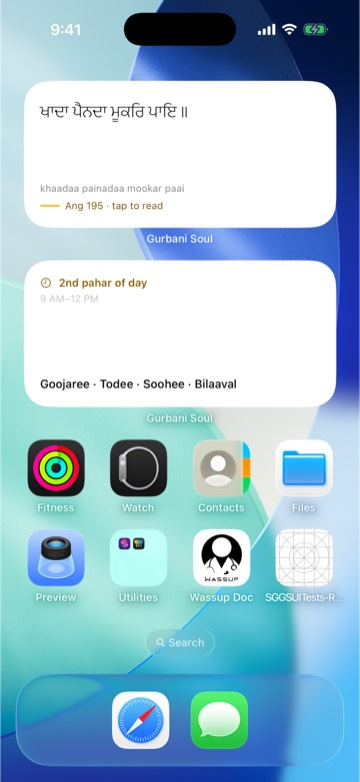
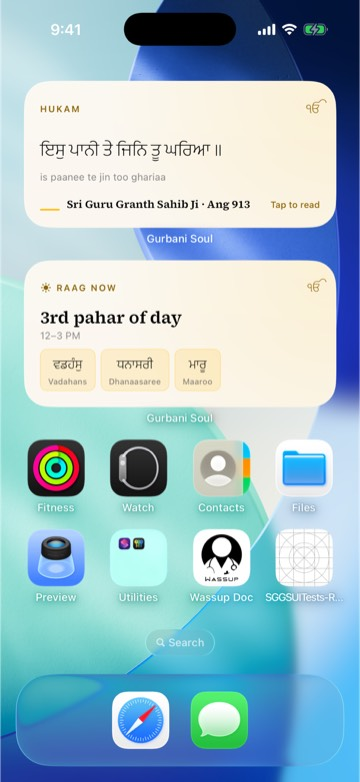
ios(widgets): premium redesign on the brand system
Hukam verse + Raag now widgets rebuilt to the brand book (section 6):
- warm paper ground (Ink.paper) with a faint gold light in one corner
- small-caps gold eyebrow ("HUKAM", "RAAG NOW" with a sun/moon glyph)
  and the gold Ik Onkar signature
- verse in ink Sant Lipi with generous leading; transliteration beneath;
  citation in Source Serif 4 as the full "Sri Guru Granth Sahib Ji - Ang N"
  with a gold rule and a "Tap to read" cue
- Raag now: pahar name in the serif, time range, raag chips showing the
  verbatim Gurmukhi raag name over its roman form (small: 2, medium: 4,
  "+n" overflow); day/night states; silent-watch copy
- WidgetSnapshot.paharRaagsGurmukhi (optional, older snapshots decode);
  AppContainer writes it. Source Serif 4 bundled + registered in the
  widget extension (project.yml / Widgets/Info.plist regenerated).
- accessibility: combined labels; Gurmukhi spoken as Punjabi.

Scripture is verbatim from the snapshot and never coloured. Checked on
the iPhone 17 simulator (both widgets, light). SGGSTests 44/44.
Store widget screenshot re-captured; contact-sheet thumbnail updated.

Changed region(s): [[0.0917, 0.3376, 0.9472, 0.5217], [0.0917, 0.0921, 0.9472, 0.3069]]

diff --git a/ios/App/Widgets/SGGSWidgets.swift b/ios/App/Widgets/SGGSWidgets.swift
@@ -4,6 +4,10 @@ import GurbaniPahar
 
 /// SGGS widgets — read the App-Group snapshot + pure GurbaniPahar math only (never the corpus
 /// DB; extension memory stays in kilobytes). Deep links route through the app's sggs:// table.
+///
+/// Design (brand book §6, "Widgets"): warm paper ground, one gold accent, a small-caps eyebrow,
+/// scripture in ink Sant Lipi with air around it, the full citation in the heading serif.
+/// Scripture is verbatim from the snapshot and is never coloured or restyled.
 
 @main
 struct SGGSWidgetsBundle: WidgetBundle {
@@ -13,12 +17,81 @@ struct SGGSWidgetsBundle: WidgetBundle {
     }
 }
 
+// MARK: - Shared vocabulary (the widget target has no Theme.swift; Sant Lipi + Source Serif 4
+// are bundled and registered in the extension's own Info.plist)
+
+private enum WidgetType {
+    static func gurmukhi(_ size: CGFloat) -> Font { .custom("SantLipi-ExtraLight", size: size) }
+    static func serif(_ size: CGFloat, weight: Font.Weight = .semibold) -> Font {
+        .custom("SourceSerif4Variable-Roman", size: size).weight(weight)
+    }
+    static let eyebrow: Font = .system(size: 10, weight: .semibold, design: .default)
+}
+
+/// The paper ground every widget sits on: `Ink.paper` plus a faint gold light in one corner —
+/// the only decoration, at ≤8% so scripture always leads.
+private struct PaperGround: View {
+    var body: some View {
+        ZStack {
+            Ink.paper
+            RadialGradient(colors: [AccentPalette.brandDefault.accentFill.opacity(0.14), .clear],
+                           center: .topTrailing, startRadius: 0, endRadius: 260)
+        }
+    }
+}
+
+/// Small-caps label in the accent — "HUKAM", "RAAG NOW".
+private struct Eyebrow: View {
+    let text: String
+    var symbol: String? = nil
+    var body: some View {
+        HStack(spacing: 5) {
+            if let symbol { Image(systemName: symbol).font(.system(size: 10, weight: .semibold)) }
+            Text(text).font(WidgetType.eyebrow).tracking(1.4)
+        }
+        .foregroundStyle(AccentPalette.brandDefault.accentText)
+        .accessibilityHidden(true)
+    }
+}
+
+/// The ੴ mark, gold, used as the widget's signature.
+private struct Mark: View {
+    var size: CGFloat = 18
+    var body: some View {
+        Text("ੴ").font(WidgetType.gurmukhi(size))
+            .foregroundStyle(AccentPalette.brandDefault.accentText)
+            .accessibilityHidden(true)
+    }
+}
+
+/// Gold rule + citation in the serif. Always the full name of the Granth (brand book §1).
+private struct Citation: View {
+    let ang: Int
+    var action: String? = nil
+    var body: some View {
+        HStack(alignment: .firstTextBaseline, spacing: 8) {
+            RoundedRectangle(cornerRadius: 1).fill(AccentPalette.brandDefault.accentFill)
+                .frame(width: 22, height: 2).alignmentGuide(.firstTextBaseline) { $0[.bottom] - 3 }
+            Text("Sri Guru Granth Sahib Ji · Ang \(String(ang))")
+                .font(WidgetType.serif(12))
+                .foregroundStyle(.primary)
+                .lineLimit(1).minimumScaleFactor(0.8)
+            if let action {
+                Spacer(minLength: 4)
+                Text(action).font(.system(size: 10, weight: .medium))
+                    .foregroundStyle(AccentPalette.brandDefault.accentText)
+            }
+        }
+    }
+}
+
 // MARK: - Current raag (fixed-clock pahar timeline)
 
 struct RaagNowEntry: TimelineEntry {
     let date: Date
     let pahar: Int
-    let raags: [String]
+    let raags: [String]            // roman
+    let raagsGurmukhi: [String]    // verbatim Gurmukhi names, parallel to `raags` when present
     let hasSnapshot: Bool
 }
 
@@ -28,11 +101,13 @@ struct RaagNowProvider: TimelineProvider {
         let m = (c.hour ?? 0) * 60 + (c.minute ?? 0)
         let p = Pahar.paharFromMinutes(m)
         return RaagNowEntry(date: date, pahar: p, raags: snapshot?.paharRaags[p] ?? [],
+                            raagsGurmukhi: snapshot?.paharRaagsGurmukhi?[p] ?? [],
                             hasSnapshot: snapshot != nil)
     }
 
     func placeholder(in context: Context) -> RaagNowEntry {
-        RaagNowEntry(date: .now, pahar: 4, raags: ["maajh", "gaurhee", "tilang"], hasSnapshot: true)
+        RaagNowEntry(date: .now, pahar: 4, raags: ["maajh", "gaurhee", "tilang"],
+                     raagsGurmukhi: [], hasSnapshot: true)
     }
 
     func getSnapshot(in context: Context, completion: @escaping (RaagNowEntry) -> Void) {
@@ -66,7 +141,7 @@ struct RaagNowWidget: Widget {
     var body: some WidgetConfiguration {
         StaticConfiguration(kind: "RaagNow", provider: RaagNowProvider()) { entry in
             RaagNowView(entry: entry, hasSnapshot: entry.hasSnapshot)
-                .containerBackground(for: .widget) { Ink.card }
+                .containerBackground(for: .widget) { PaperGround() }
         }
         .configurationDisplayName("Raag now")
         .description("Which raags are traditionally sung in the current watch (fixed clock).")
@@ -79,28 +154,70 @@ struct RaagNowView: View {
     /// Distinguishes "no snapshot yet" (open the app) from a pahar that legitimately has
     /// no primary raags — the two used to share one misleading message.
     let hasSnapshot: Bool
+    @Environment(\.widgetFamily) private var family
+
+    private var isDay: Bool { (1...4).contains(entry.pahar) }
+    private var chipLimit: Int { family == .systemSmall ? 2 : 4 }
+
+    /// A raag chip: Gurmukhi name (verbatim) over its roman form; roman only if the snapshot
+    /// predates the Gurmukhi field.
+    private func chip(_ i: Int) -> some View {
+        let roman = entry.raags[i].capitalized
+        let gm = i < entry.raagsGurmukhi.count ? entry.raagsGurmukhi[i] : nil
+        return VStack(spacing: 1) {
+            if let gm { Text(gm).font(WidgetType.gurmukhi(15)).foregroundStyle(.primary) }
+            Text(roman).font(.system(size: gm == nil ? 12 : 9, weight: .medium))
+                .foregroundStyle(gm == nil ? .primary : .secondary)
+        }
+        .padding(.horizontal, 9).padding(.vertical, 5)
+        .background(AccentPalette.brandDefault.accentFill.opacity(0.16),
+                    in: RoundedRectangle(cornerRadius: 8, style: .continuous))
+        .overlay(RoundedRectangle(cornerRadius: 8, style: .continuous)
+            .strokeBorder(AccentPalette.brandDefault.accentFill.opacity(0.45), lineWidth: 0.5))
+    }
 
     var body: some View {
-        VStack(alignment: .leading, spacing: 4) {
-            HStack {
-                Image(systemName: "clock").font(.caption2)
-                Text(Pahar.label(entry.pahar)).font(.caption.weight(.semibold))
+        VStack(alignment: .leading, spacing: 0) {
+            HStack(alignment: .center) {
+                Eyebrow(text: "RAAG NOW", symbol: isDay ? "sun.max.fill" : "moon.stars.fill")
+                Spacer()
+                Mark(size: 15)
             }
-            .foregroundStyle(AccentPalette.brandDefault.accentText)
-            Text(Pahar.range(entry.pahar)).font(.caption2).foregroundStyle(.tertiary)
-            Spacer(minLength: 2)
+            Spacer(minLength: 6)
+            Text(Pahar.label(entry.pahar))
+                .font(WidgetType.serif(family == .systemSmall ? 16 : 19))
+                .lineLimit(1).minimumScaleFactor(0.8)
+            Text(Pahar.range(entry.pahar))
+                .font(.system(size: 11)).foregroundStyle(.secondary)
+                .padding(.top, 1)
+            Spacer(minLength: 8)
             if entry.raags.isEmpty {
-                Text(entry.pahar == 7 ? "Deliberately silent"
-                     : hasSnapshot ? "No raags named for this watch" : "Open the app to load")
-                    .font(.footnote).foregroundStyle(.secondary)
+                Text(entry.pahar == 7 ? "Deliberately silent — no raags are assigned to this watch."
+                     : hasSnapshot ? "No raags named for this watch." : "Open Gurbani Soul once to load.")
+                    .font(.system(size: 12)).foregroundStyle(.secondary)
+                    .lineLimit(2)
             } else {
-                Text(entry.raags.prefix(4).map { $0.capitalized }.joined(separator: " · "))
-                    .font(.footnote.weight(.medium))
-                    .lineLimit(3)
+                HStack(spacing: 6) {
+                    ForEach(0..<min(chipLimit, entry.raags.count), id: \.self) { chip($0) }
+                    if entry.raags.count > chipLimit {
+                        Text("+\(entry.raags.count - chipLimit)")
+                            .font(.system(size: 11, weight: .medium))
+                            .foregroundStyle(AccentPalette.brandDefault.accentText)
+                    }
+                }
+                .lineLimit(1)
             }
         }
         .frame(maxWidth: .infinity, maxHeight: .infinity, alignment: .topLeading)
+        .accessibilityElement(children: .ignore)
+        .accessibilityLabel(a11y)
         .widgetURL(URL(string: "sggs://clock"))
+    }
+
+    private var a11y: String {
+        let names = entry.raagsGurmukhi.isEmpty ? entry.raags.map { $0.capitalized } : entry.raagsGurmukhi
+        return "Raag now. \(Pahar.label(entry.pahar)), \(Pahar.range(entry.pahar)). "
+            + (names.isEmpty ? "No raags named." : names.joined(separator: ", "))
     }
 }
 
@@ -131,7 +248,7 @@ struct HukamWidget: Widget {
     var body: some WidgetConfiguration {
         StaticConfiguration(kind: "Hukam", provider: HukamProvider()) { entry in
             HukamView(entry: entry)
-                .containerBackground(for: .widget) { Ink.card }
+                .containerBackground(for: .widget) { PaperGround() }
         }
         .configurationDisplayName("Hukam verse")
         .description("A Hukam unit's opening verse, verbatim with its Ang — a new draw each time you open the app.")
@@ -141,29 +258,49 @@ struct HukamWidget: Widget {
 
 struct HukamView: View {
     let entry: HukamEntry
+    @Environment(\.widgetFamily) private var family
+
+    private var large: Bool { family == .systemLarge }
+
     var body: some View {
-        VStack(alignment: .leading, spacing: 6) {
+        VStack(alignment: .leading, spacing: 0) {
+            HStack(alignment: .center) {
+                Eyebrow(text: "HUKAM")
+                Spacer()
+                Mark(size: large ? 22 : 16)
+            }
             if let s = entry.snapshot {
+                Spacer(minLength: large ? 14 : 8)
+                // The verse: verbatim, ink, generous leading for stacked matras.
                 Text(s.hukamGurmukhi)
-                    .font(.custom("SantLipi-ExtraLight", size: 20))
-                    .minimumScaleFactor(0.6)
-                    .lineLimit(4)
-                Spacer(minLength: 2)
-                Text(s.hukamTranslit).font(.caption2).foregroundStyle(.secondary).lineLimit(2)
-                HStack(spacing: 6) {
-                    RoundedRectangle(cornerRadius: 1)
-                        .fill(AccentPalette.brandDefault.heroGradient)
-                        .frame(width: 22, height: 2)
-                    Text("Ang \(String(s.hukamAng)) · tap to read")
-                        .font(.caption2).foregroundStyle(AccentPalette.gold.accentText)
+                    .font(WidgetType.gurmukhi(large ? 26 : 21))
+                    .lineSpacing(large ? 8 : 5)
+                    .minimumScaleFactor(0.7)
+                    .lineLimit(large ? 5 : 3)
+                    .foregroundStyle(.primary)
+                    .accessibilityLabel(Text(punjabi(s.hukamGurmukhi)))
+                if !s.hukamTranslit.isEmpty {
+                    Text(s.hukamTranslit)
+                        .font(.system(size: large ? 13 : 11))
+                        .foregroundStyle(.secondary)
+                        .lineLimit(large ? 3 : 1)
+                        .padding(.top, large ? 10 : 6)
+                        .accessibilityHidden(true)
                 }
+                Spacer(minLength: large ? 14 : 8)
+                Citation(ang: s.hukamAng, action: large ? "Tap to read the shabad" : "Tap to read")
             } else {
-                Text("ੴ").font(.custom("SantLipi-ExtraLight", size: 28))
-                    .foregroundStyle(AccentPalette.brandDefault.accent)
-                Text("Open SGGS once to load a Hukam.").font(.footnote).foregroundStyle(.secondary)
+                Spacer(minLength: 8)
+                Text("Open Gurbani Soul once to draw a Hukam.")
+                    .font(.system(size: 13)).foregroundStyle(.secondary)
+                Spacer(minLength: 8)
             }
         }
         .frame(maxWidth: .infinity, maxHeight: .infinity, alignment: .topLeading)
         .widgetURL(URL(string: entry.snapshot.map { "sggs://shabad/\($0.hukamCompId)" } ?? "sggs://ang/1"))
+    }
+
+    private func punjabi(_ s: String) -> AttributedString {
+        var a = AttributedString(s); a.languageIdentifier = "pa"; return a
     }
 }

diff --git a/ios/App/Sources/App/AppContainer.swift b/ios/App/Sources/App/AppContainer.swift
@@ -188,10 +188,13 @@ final class AppContainer {
         guard let hukam = try? await corpus.randomHukam(),
               let firstVerse = hukam.lines.first(where: { !$0.isHeader }) else { return }
         var paharRaags: [Int: [String]] = [:]
+        var paharRaagsGurmukhi: [Int: [String]] = [:]
         let clock = await corpus.timingClock()
         if clock.available {
             for p in 1...8 {
-                paharRaags[p] = clock.raags(forPahar: p).compactMap { $0.roman ?? $0.raagName }
+                let claims = clock.raags(forPahar: p)
+                paharRaags[p] = claims.compactMap { $0.roman ?? $0.raagName }
+                paharRaagsGurmukhi[p] = claims.compactMap { $0.raagName ?? $0.roman }
             }
         }
         WidgetStore.save(WidgetSnapshot(
@@ -200,7 +203,8 @@ final class AppContainer {
             hukamTranslit: firstVerse.translit,
             hukamAng: firstVerse.ang,
             hukamCompId: hukam.compId,
-            paharRaags: paharRaags))
+            paharRaags: paharRaags,
+            paharRaagsGurmukhi: paharRaagsGurmukhi))
         #if canImport(WidgetKit)
         WidgetCenter.shared.reloadAllTimelines()
         #endif

diff --git a/ios/App/Shared/WidgetShared.swift b/ios/App/Shared/WidgetShared.swift
@@ -13,6 +13,9 @@ struct WidgetSnapshot: Codable, Sendable {
     /// Fixed-clock primary raag claims: pahar (1–8) → roman raag names, from /api/timing/clock.
     /// Precomputed so the widget needs zero SQLite/location/solar logic.
     var paharRaags: [Int: [String]]
+    /// The same claims' Gurmukhi raag names (verbatim from the timing table), parallel to
+    /// `paharRaags`. Optional so a snapshot written by an older app still decodes.
+    var paharRaagsGurmukhi: [Int: [String]]? = nil
 }
 
 enum WidgetStore {
